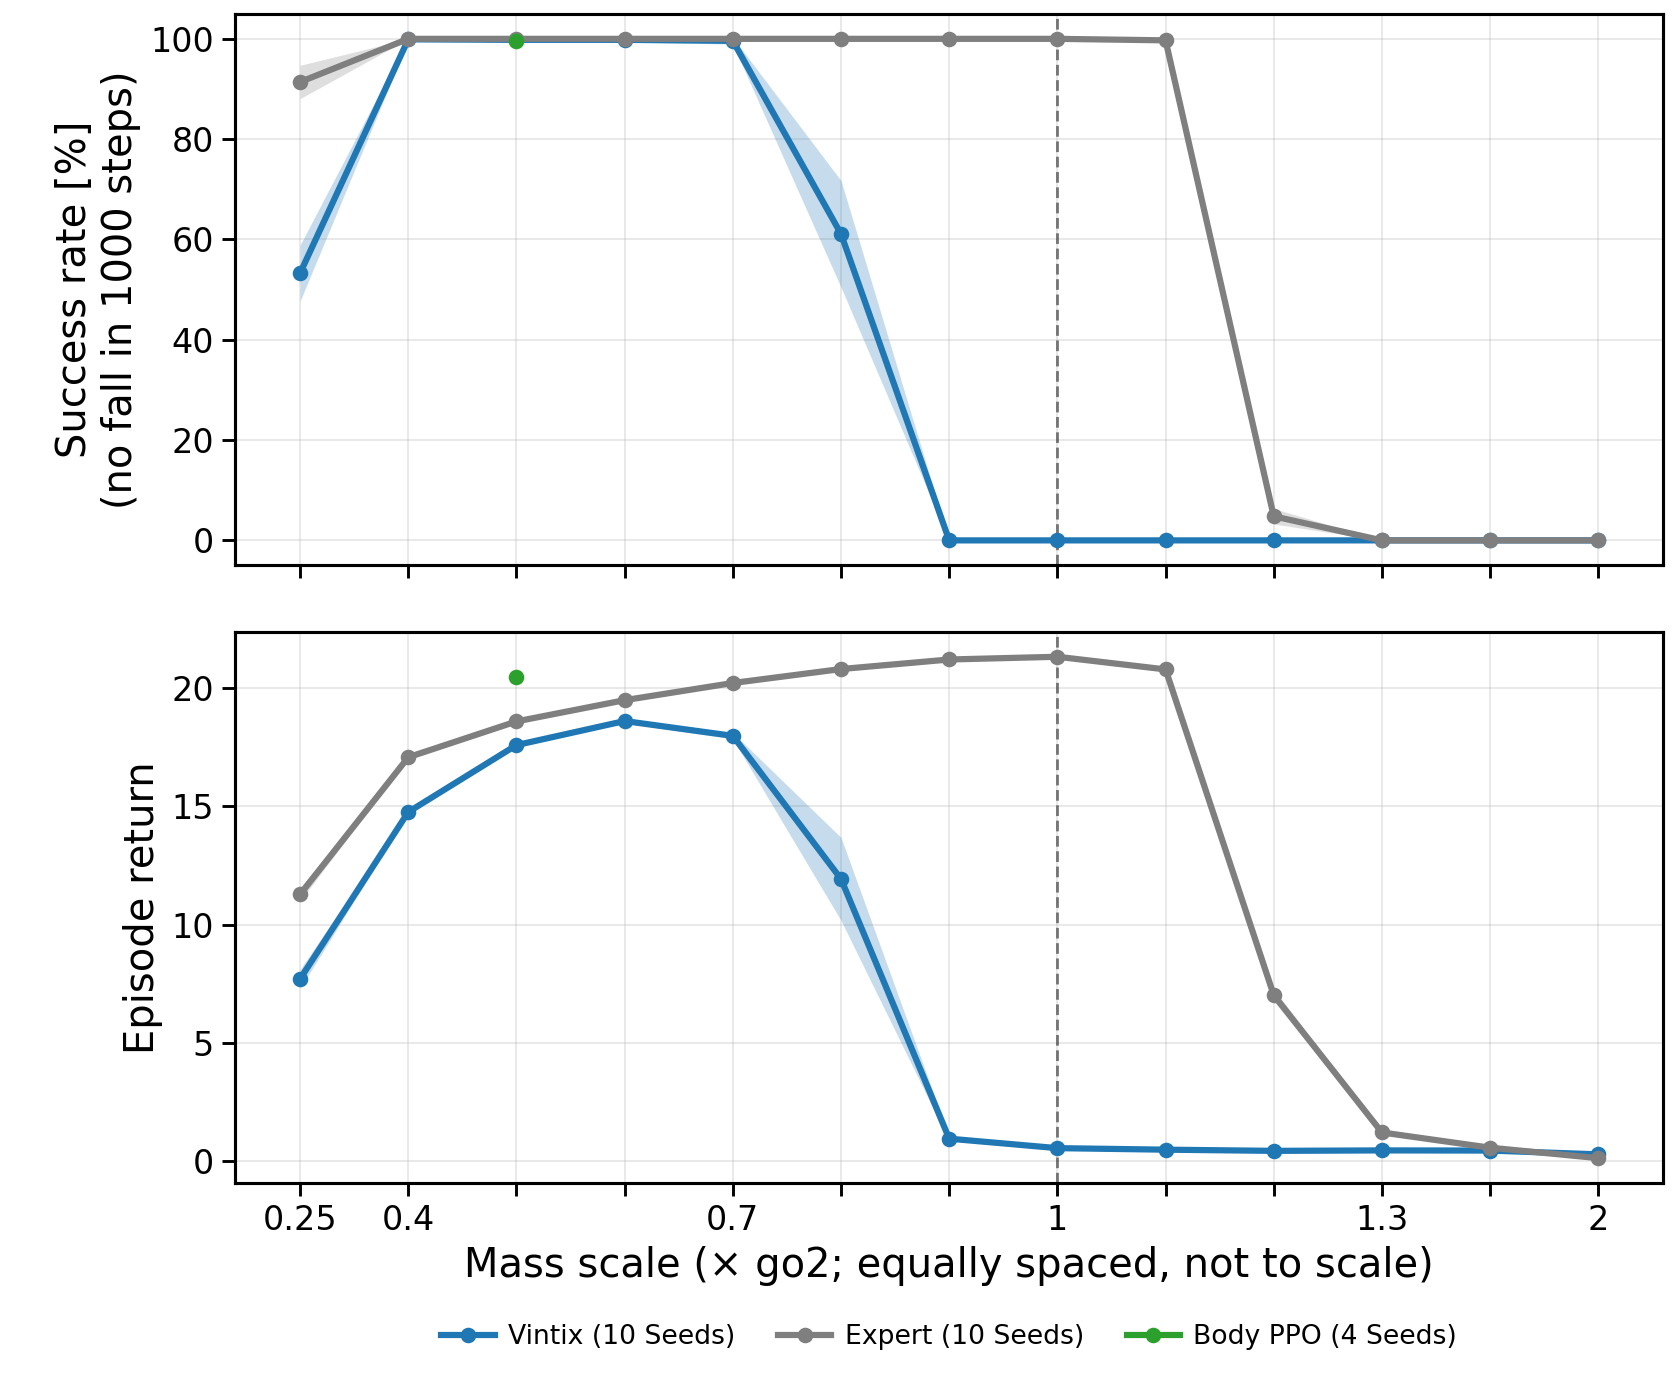
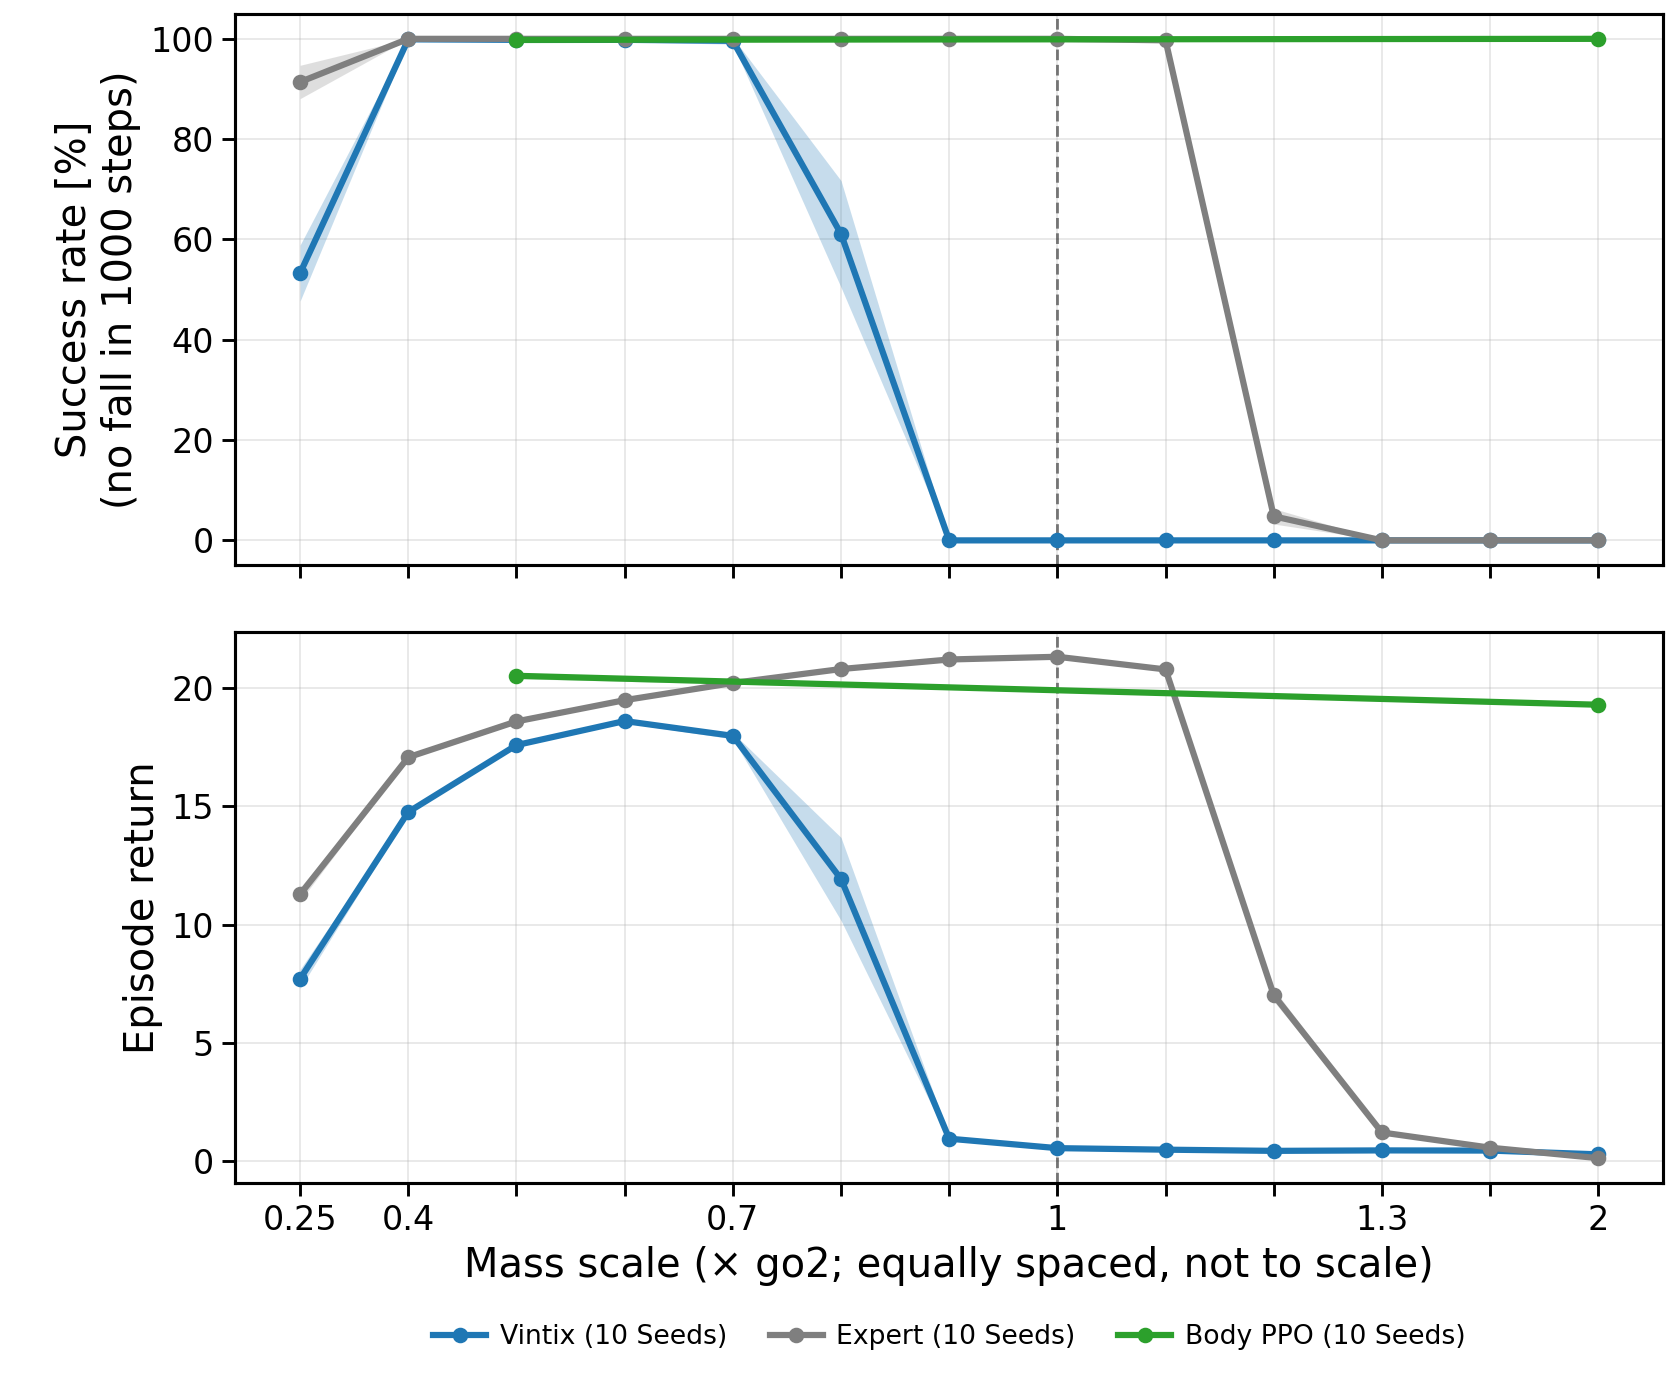
Record interim PPO cliffs: A1 endpoints and Go2 mass are learnable.

diff --git a/RESEARCH_OBJECTIVES.md b/RESEARCH_OBJECTIVES.md
@@ -8,5 +8,5 @@
 
 | 目的 | Notion ページ | 実験ディレクトリ（ブランチ） | Issue |
 |------|---------------|------------------------------|-------|
-| 体の違いとゼロショット適応の限界: どれくらい体が違うとアルゴリズム蒸留（Vintix）だけではうまく適応できないかを調べる | [体の違いとゼロショット適応の限界](https://app.notion.com/p/40cd65e6123f81b3be04fe61479b7c70)（page_id `40cd65e6-123f-81b3-be04-fe61479b7c70`） | `vintix_go2/go1_body_scale_zeroshot/`（`exp/go1-body-scale-zeroshot`）、`vintix_go2/robot_body_scale_zeroshot/`（`exp/robot-body-scale-zeroshot`、Go2・A1・Mini Cheetah と密度一定の大きさ） | [#10](https://github.com/ishiishiishii/vintix/issues/10)（4 台 × 3 軸）、[#1](https://github.com/ishiishiishii/vintix/issues/1)（目的）、[#2](https://github.com/ishiishiishii/vintix/issues/2)（刻み・10 シード・PPO）、[#3](https://github.com/ishiishiishii/vintix/issues/3)（設計の合意）、[#4](https://github.com/ishiishiishii/vintix/issues/4)（PPO・AD データ）、[#5](https://github.com/ishiishiishii/vintix/issues/5)（Go2 原因切り分け）、[#7](https://github.com/ishiishiishii/vintix/issues/7)（質量 × 脚の長さ仮説の検証）、[#8](https://github.com/ishiishiishii/vintix/issues/8)（Vintix の環境ごとの二極化）、[#9](https://github.com/ishiishiishii/vintix/issues/9)（大きさ 1.5 倍の PPO の学習失敗の切り分け） |
+| 体の違いとゼロショット適応の限界: どれくらい体が違うとアルゴリズム蒸留（Vintix）だけではうまく適応できないかを調べる | **Go1 まとめ（今日の進捗報告用）:** [体の違いとゼロショット適応の限界](https://app.notion.com/p/40cd65e6123f81b3be04fe61479b7c70)（`40cd65e6-123f-81b3-be04-fe61479b7c70`）。**4台・#10 速報:** [4台体スケールのゼロショット限界](https://app.notion.com/p/41ad65e6123f819e9cabee1835c71c90)（`41ad65e6-123f-819e-9cab-ee1835c71c90`）。同体学習比較は #18（#11 完了後） | `vintix_go2/go1_body_scale_zeroshot/`（`exp/go1-body-scale-zeroshot`）、`vintix_go2/robot_body_scale_zeroshot/`（`exp/robot-body-scale-zeroshot`、Go2・A1・Mini Cheetah と密度一定の大きさ） | [#10](https://github.com/ishiishiishii/vintix/issues/10)（4 台 × 3 軸）、[#18](https://github.com/ishiishiishii/vintix/issues/18)（同体のみ学習 Vintix・#11 後）、[#1](https://github.com/ishiishiishii/vintix/issues/1)（目的）、[#2](https://github.com/ishiishiishii/vintix/issues/2)（刻み・10 シード・PPO）、[#3](https://github.com/ishiishiishii/vintix/issues/3)（設計の合意）、[#4](https://github.com/ishiishiishii/vintix/issues/4)（PPO・AD データ）、[#5](https://github.com/ishiishiishii/vintix/issues/5)（Go2 原因切り分け）、[#7](https://github.com/ishiishiishii/vintix/issues/7)（質量 × 脚の長さ仮説の検証）、[#8](https://github.com/ishiishiishii/vintix/issues/8)（Vintix の環境ごとの二極化）、[#9](https://github.com/ishiishiishii/vintix/issues/9)（大きさ 1.5 倍の PPO の学習失敗の切り分け）、[#13](https://github.com/ishiishiishii/vintix/issues/13)（下限追試） |
 | DR ロボットの学習履歴データセット: Vintix の学習データとして、多様な体（DR で作った 200 体）の PPO 学習履歴を学習シードを変えて集める | [DR ロボットの学習履歴データセット](https://app.notion.com/p/416d65e6123f81f3a613f871abd3676c)（page_id `416d65e6-123f-81f3-a613-f871abd3676c`） | `vintix_go2/dr_robots_multiseed_history/`（`exp/robot-body-scale-zeroshot`）、元の DR 実験 `vintix_go2/dr_robots_ppo_history/` | [#11](https://github.com/ishiishiishii/vintix/issues/11) |
